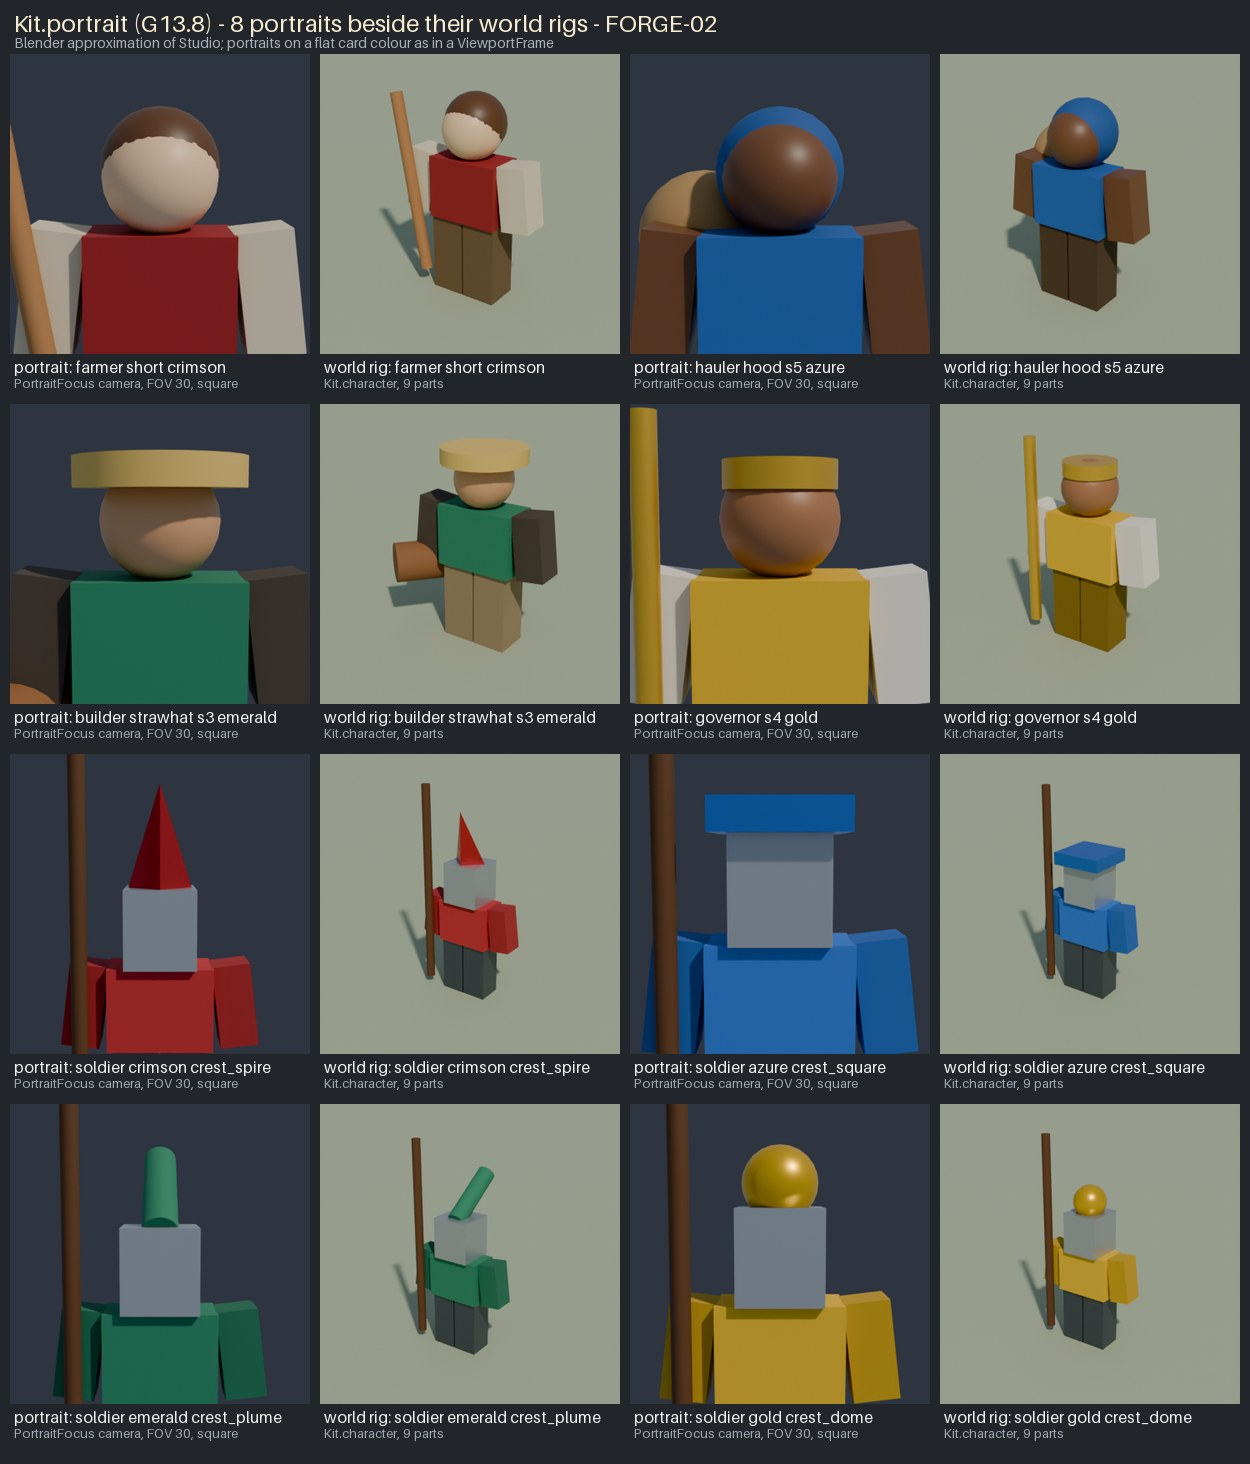
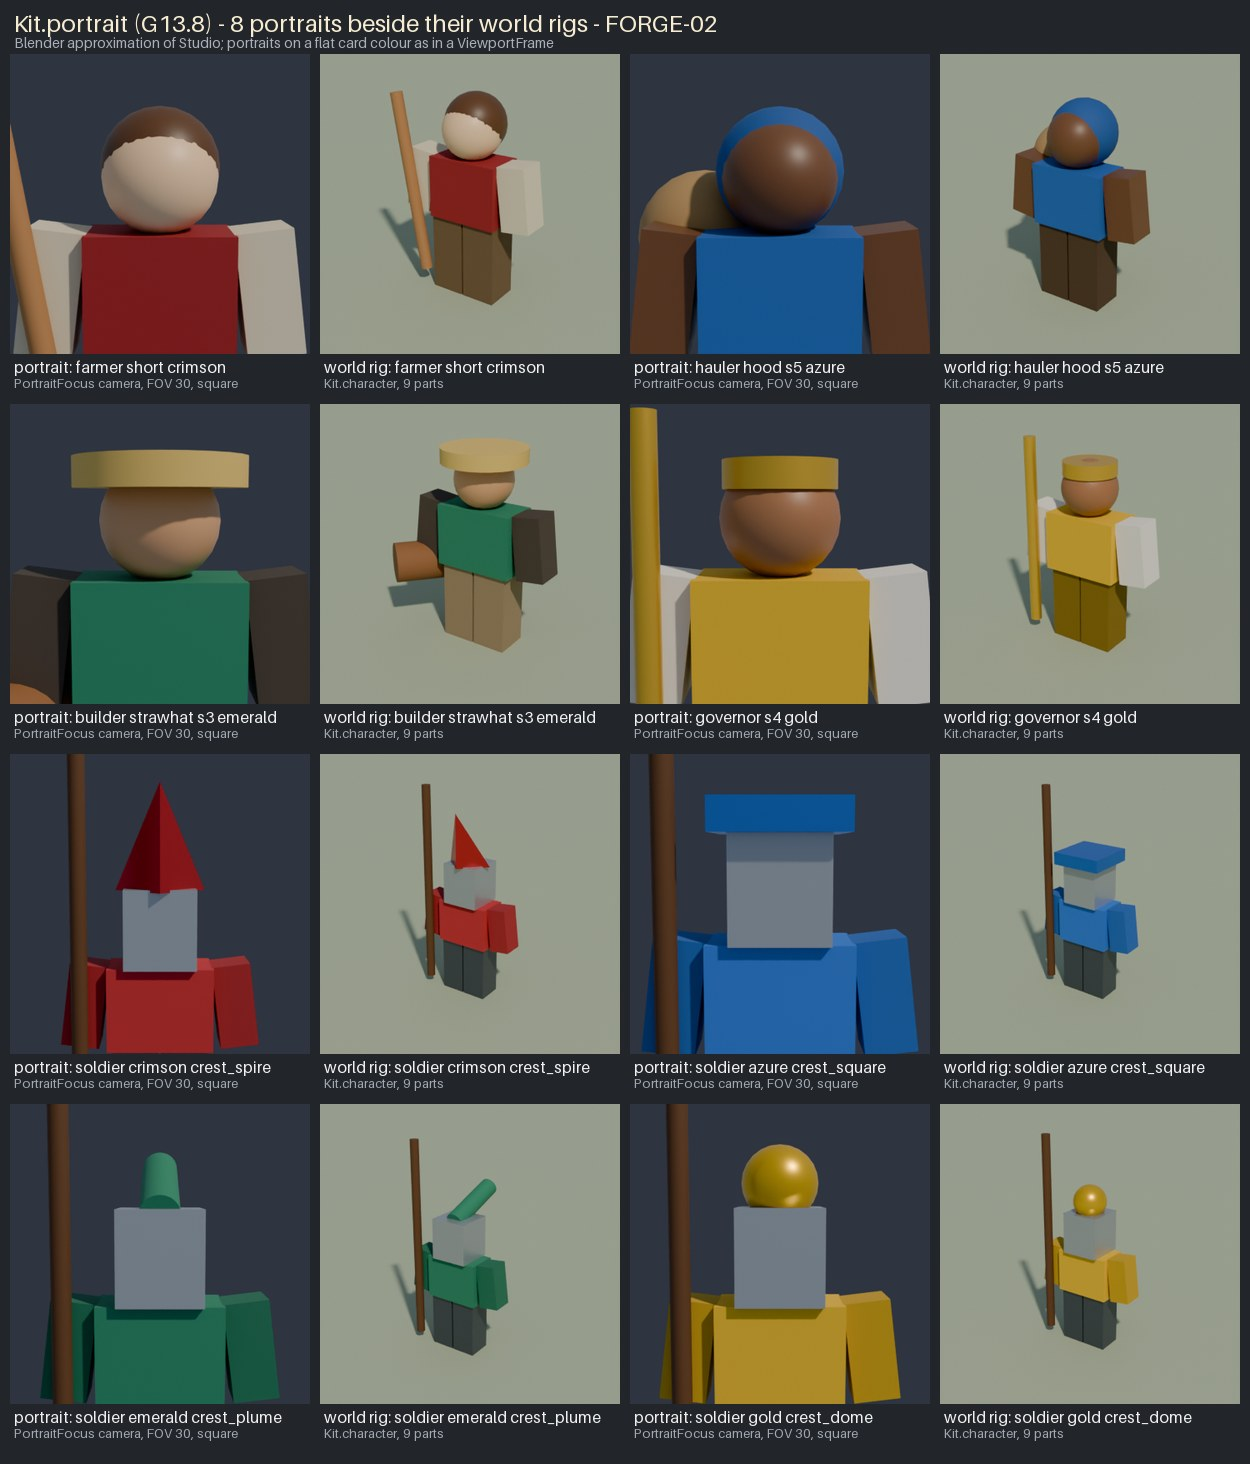
FL-0098: portrait sheet re-rendered with the crest follow-up geometry; face-share numbers corrected
Claude-Session: https://claude.ai/code/session_01QhAZKvWsRXpSKTGWcY3Eq6

diff --git a/games/game-001/art/reviews/kit-characters.md b/games/game-001/art/reviews/kit-characters.md
@@ -160,8 +160,13 @@ render script.
 - Verdict: every portrait matches its rig in colours, headwear, crest and tool, and is head and shoulders. The
   face and the hat, crown or crest are uncropped, the shoulder line and arm tops are visible, and the outer
   arm edges are cut in a square frame.
-- Tall crests pull the camera back, so the face share of the frame height is 0.41–0.42 for citizens, the
-  governor and plain soldiers, and 0.27 (spire), 0.29 (plume), 0.33 (dome) and 0.38 (square) for crested soldiers.
+- Tall crests pull the camera back, so the face share of the frame height is 0.39–0.41 for citizens, the
+  governor and plain soldiers, and 0.25 (spire), 0.31 (plume), 0.31 (dome) and 0.36 (square) for crested soldiers.
+  These were measured with the 0.45 headroom and the crest follow-up geometry. The spire is just above the
+  spec's 0.25 floor.
+- Re-rendered after the crest CVD follow-up (wider spire, plume at 70°): the wider spire still fits with headroom
+  and its base corners are not cropped. The 70° plume is uncropped but reads as a short stub from the front,
+  because the tail hides behind the helm.
 - Unverified: the face decal is not in the Blender preview, and the ViewportFrame look in Studio (lighting,
   `Ambient`/`LightDirection`) is not checked.
 
